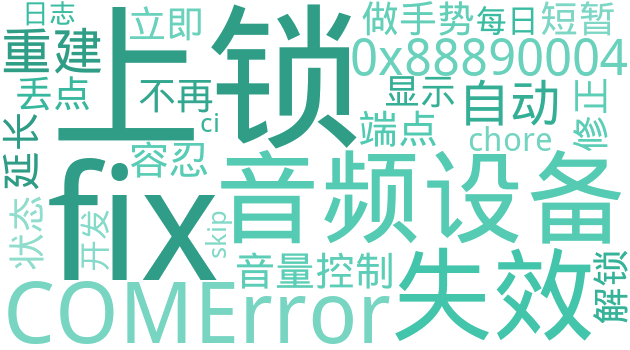
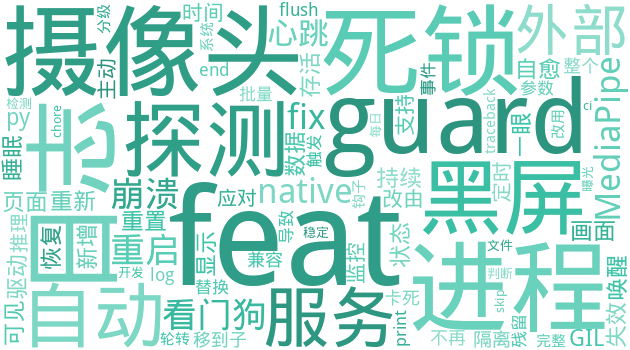
chore: 每日开发日志 [skip ci]

diff --git a/README.md b/README.md
@@ -1,8 +1,8 @@
-<h1 style="color:#4ec9b0">2026年10月25日日志</h1>
+<h1 style="color:#4ec9b0">2026年10月26日日志</h1>
 
 
-　　今天在 gesture-control 项目上做了两处修复：一是处理音频设备失效（COMError 0x88890004）的问题，在音量控制端点失效后自动重建；二是把上锁容忍时间延长到 0.5 秒，避免做手势时短暂丢点触发立即上锁，同时修正了解锁状态的显示。另外提交了一条每日开发日志。整体改动集中、范围明确，属于稳定性打磨型的一天。
+　　今天主要在做手势控制项目的稳定性加固。早上先处理了黑屏自愈，画面持续黑屏时重新探测摄像头，让睡眠唤醒或驱动重置后能自动恢复；上午给页面加了「数据 x.x 秒前」的存活提示，服务状态一眼可见。中午新增外部看门狗 guard.py，因为进程内看门狗遇 GIL 死锁会失效。下午继续深挖：日志加时间戳并让 guard 支持定时主动重启以应对 MediaPipe native 死锁，随后把 MediaPipe 推理移到子进程做隔离，避免 native 死锁卡死整个服务；中途修复了批量替换 print 时 log() 残留的 flush/end 参数问题，又搭建了分级、轮转、traceback、心跳与崩溃钩子的完整日志系统，guard 改用心跳文件检测。晚间修复摄像头探测逻辑，等自动曝光稳定再判断，避免开机时把真摄像头误判为虚拟设备。整体是围绕死锁与误判逐步收敛的一天，问题定位清晰，但多次迭代也说明原生库的稳定性处理仍需耐心打磨。
 
-<table align="center"><tr><td><img src="wordcloud.png?v=20261025" width="630" alt="提交词云"/></td><td><img src="pie.svg?v=20261025" width="350" alt="提交时间分布"/></td></tr></table>
+<table align="center"><tr><td><img src="wordcloud.png?v=20261026" width="630" alt="提交词云"/></td><td><img src="pie.svg?v=20261026" width="350" alt="提交时间分布"/></td></tr></table>
 
 📚 [查看历史日志](./logs/)

diff --git a/logs/2026-10-26/日志.md b/logs/2026-10-26/日志.md
@@ -1,0 +1,8 @@
+<h1 style="color:#4ec9b0">2026年10月26日日志</h1>
+
+
+　　今天主要在做手势控制项目的稳定性加固。早上先处理了黑屏自愈，画面持续黑屏时重新探测摄像头，让睡眠唤醒或驱动重置后能自动恢复；上午给页面加了「数据 x.x 秒前」的存活提示，服务状态一眼可见。中午新增外部看门狗 guard.py，因为进程内看门狗遇 GIL 死锁会失效。下午继续深挖：日志加时间戳并让 guard 支持定时主动重启以应对 MediaPipe native 死锁，随后把 MediaPipe 推理移到子进程做隔离，避免 native 死锁卡死整个服务；中途修复了批量替换 print 时 log() 残留的 flush/end 参数问题，又搭建了分级、轮转、traceback、心跳与崩溃钩子的完整日志系统，guard 改用心跳文件检测。晚间修复摄像头探测逻辑，等自动曝光稳定再判断，避免开机时把真摄像头误判为虚拟设备。整体是围绕死锁与误判逐步收敛的一天，问题定位清晰，但多次迭代也说明原生库的稳定性处理仍需耐心打磨。
+
+<table align="center"><tr><td><img src="wordcloud.png?v=20261026" width="630" alt="提交词云"/></td><td><img src="pie.svg?v=20261026" width="350" alt="提交时间分布"/></td></tr></table>
+
+📚 [查看历史日志](./logs/)
